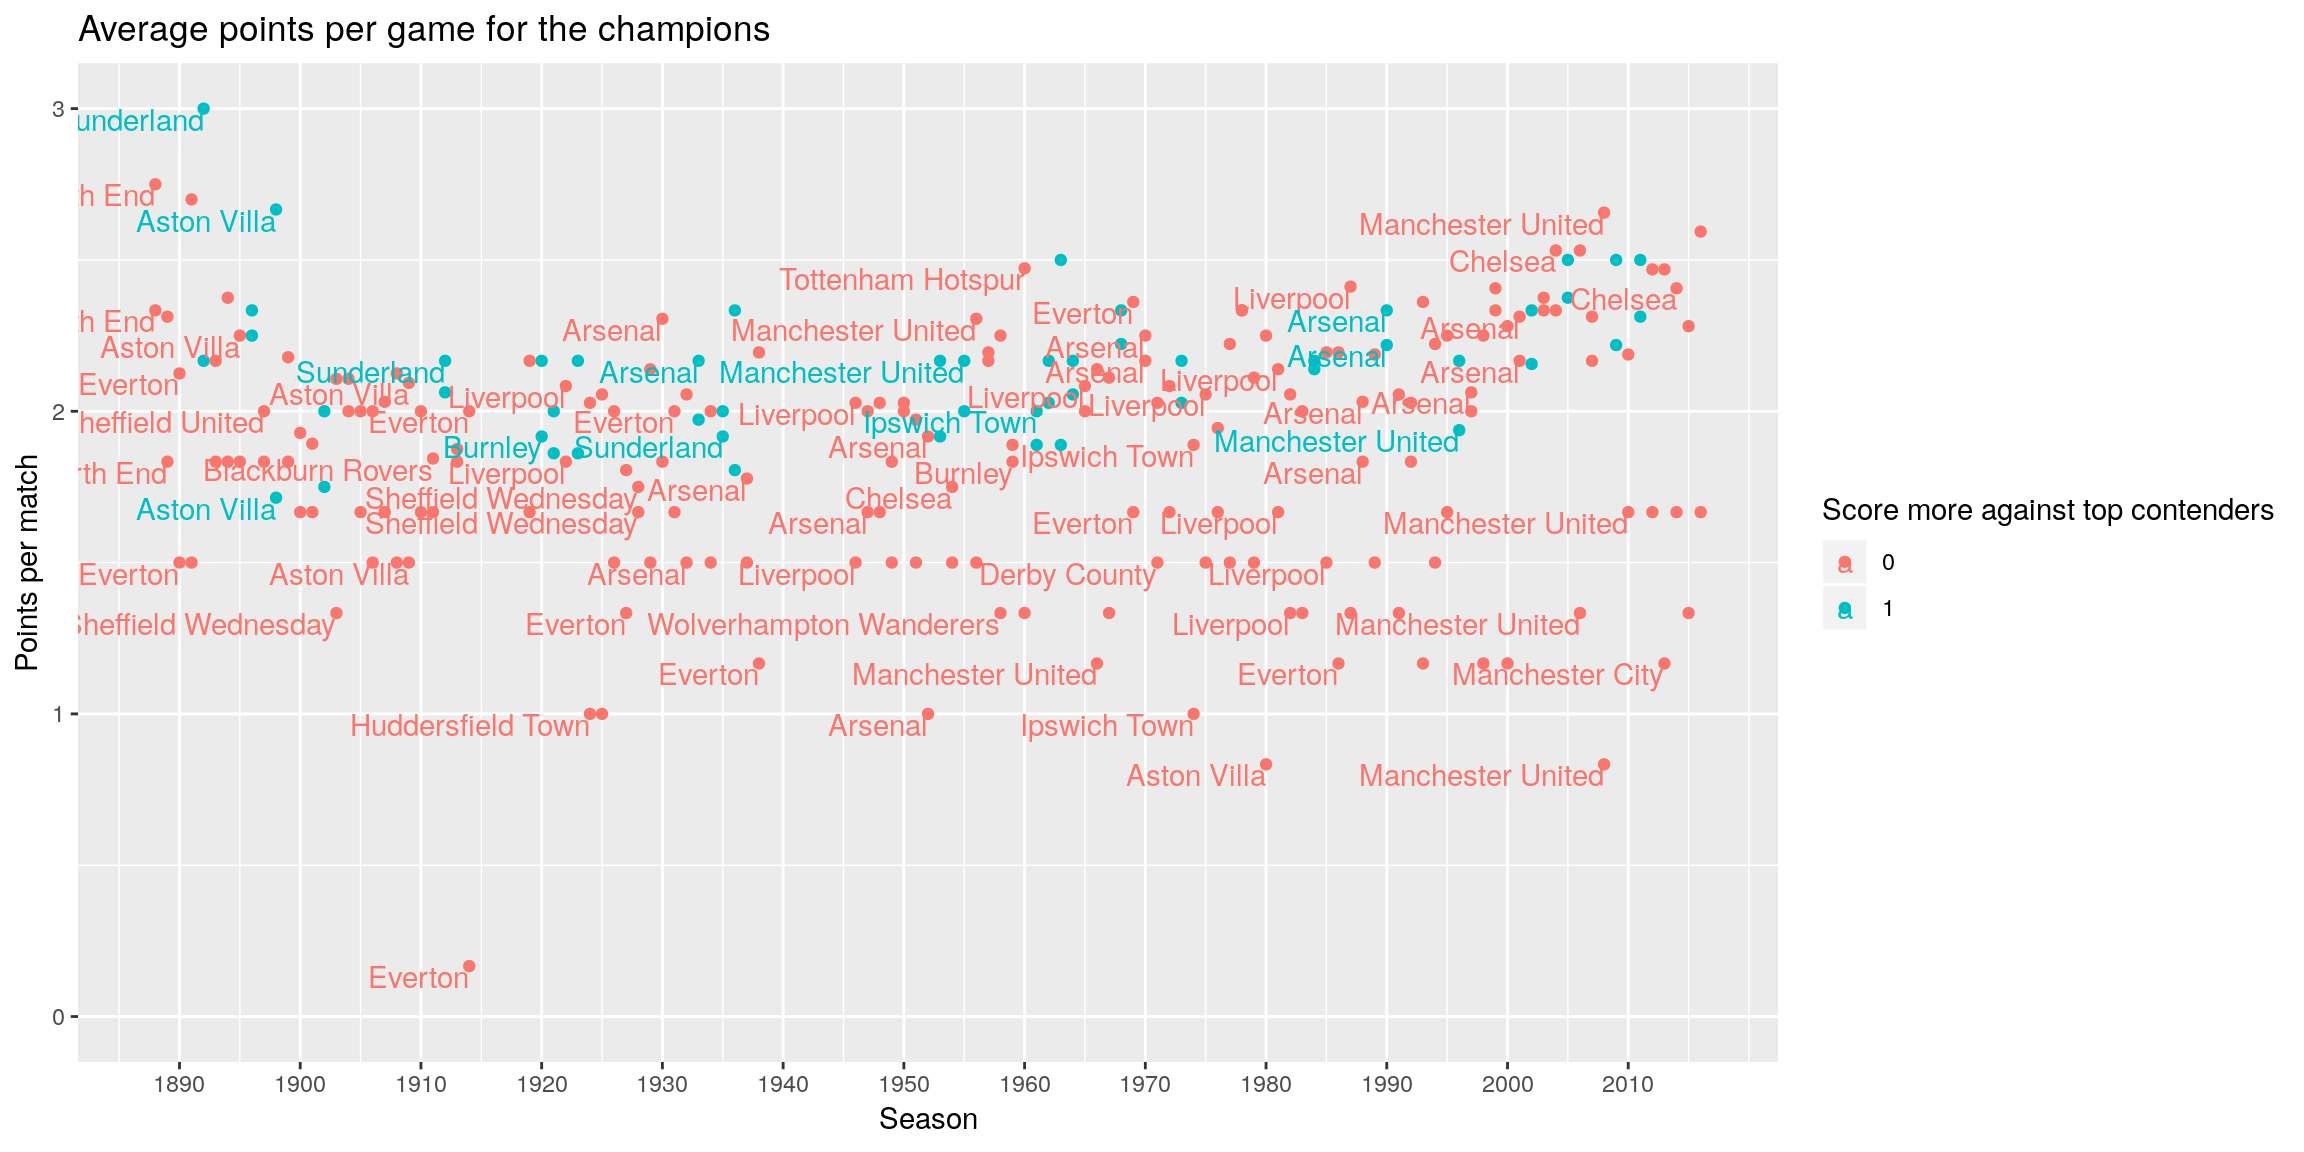
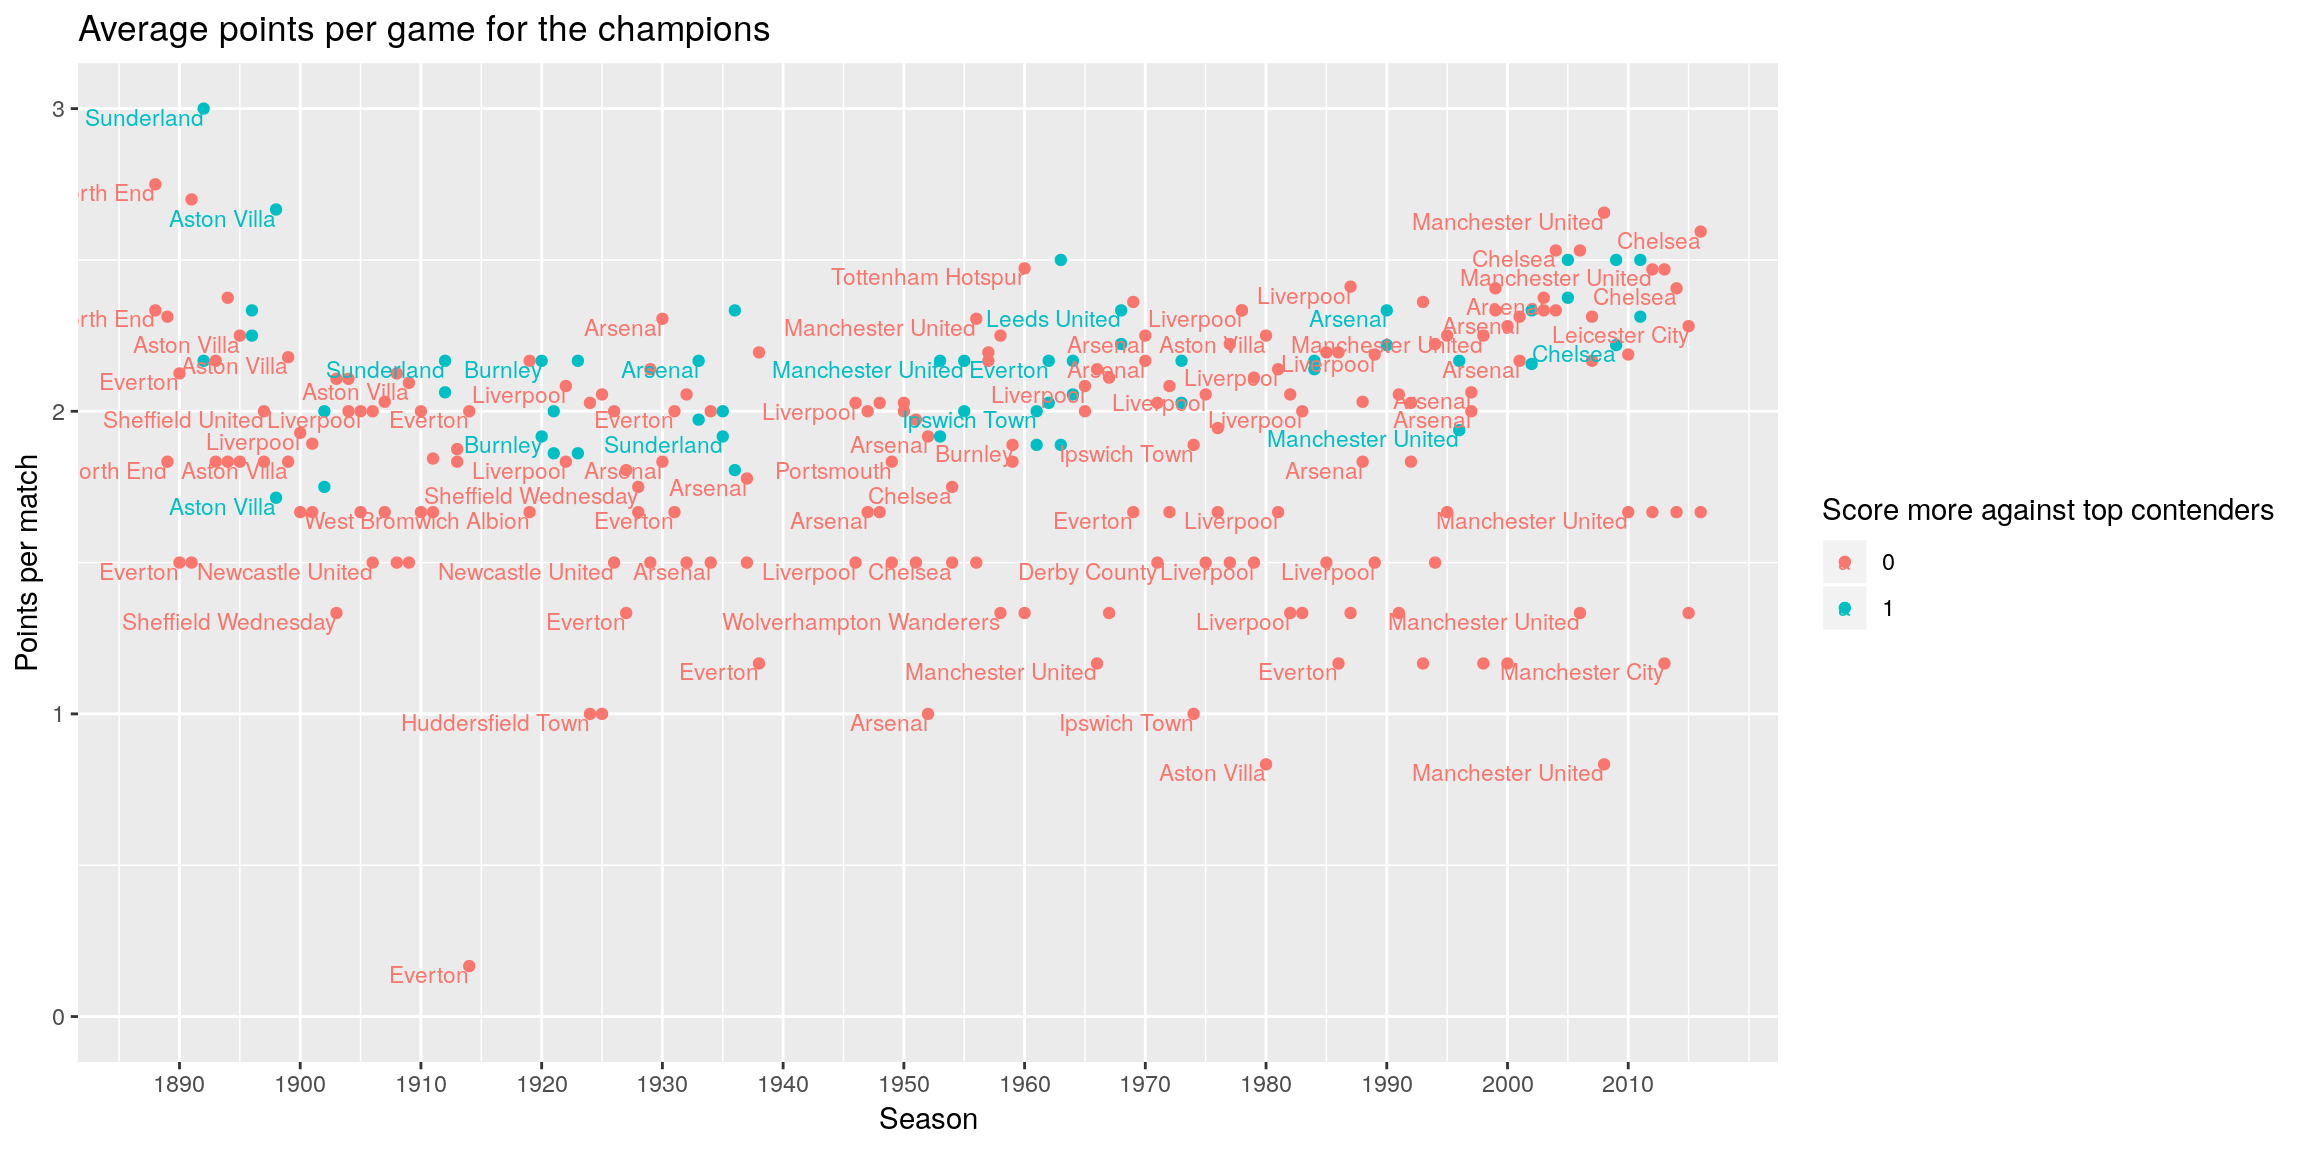
add soccer

diff --git a/content/post/2019-01-17-epl-soccer.html b/content/post/2019-01-17-epl-soccer.html
@@ -269,14 +269,13 @@ champs_points %&gt;%
   geom_point() +
   expand_limits(y=0) +
   scale_x_continuous(breaks=seq(1890,2010,10)) +
-  geom_text(aes(label = team), vjust = 1, hjust = 1, check_overlap = TRUE) +
+  geom_text(aes(label = team), vjust = 1, hjust = 1, check_overlap = TRUE, size=3) +
       labs(x = &quot;Season&quot;,
        y = &quot;Points per match&quot;,
        title = &quot;Average points per game for the champions&quot;, 
        color = &quot;Against top contenders&quot;)</code></pre>
 <pre><code>## `geom_smooth()` using method = &#39;loess&#39; and formula &#39;y ~ x&#39;</code></pre>
-<p><img src="/post/2019-01-17-epl-soccer_files/figure-html/fig1-1.png" width="1152" style="display: block; margin: auto;" /></p>
-<p>We see most cases points are higher if opponents are not top 4. But there are exceptions. Everton in 1919, Aston Villa in 1980 and Manchester United in 2008 have average points lower than 1, meaning on average they lose to the other top 3 opponents, but the winning percentage is much higher against other opponents.</p>
+<p><img src="/post/2019-01-17-epl-soccer_files/figure-html/fig1-1.png" width="1152" style="display: block; margin: auto;" /> We see most cases points are higher if opponents are not top 4. But there are exceptions. Everton in 1919, Aston Villa in 1980 and Manchester United in 2008 have average points lower than 1, meaning on average they lose to the other top 3 opponents, but the winning percentage is much higher against other opponents.</p>
 <p>Now we label those teams who have a higher winning percentage against other top 3 teams vs. lower ranked teams:</p>
 <pre class="r"><code>champs_points %&gt;%
   arrange(Season, team, oppo_top4) %&gt;%
@@ -287,11 +286,11 @@ champs_points %&gt;%
   geom_point() +
   expand_limits(y=0) +
   scale_x_continuous(breaks=seq(1890,2010,10)) +
-  geom_text(aes(label = team), vjust = 1, hjust = 1, check_overlap = TRUE) +
+  geom_text(aes(label = team), vjust = 1, hjust = 1, check_overlap = TRUE, size=3) +
     labs(x = &quot;Season&quot;,
        y = &quot;Points per match&quot;,
        title = &quot;Average points per game for the champions&quot;, 
-       color = &quot;Score more against top contenders&quot;)</code></pre>
+       color = &quot;Score more against top contenders&quot;) </code></pre>
 <p><img src="/post/2019-01-17-epl-soccer_files/figure-html/fig2-1.png" width="1152" style="display: block; margin: auto;" /></p>
 <p>There are not so many champions won more points from top contenders than other teams on average, but there are a few. Sunderland had won all games against top 4 contenders in 1892.</p>
 <p>Overall, a team wins championship by winning bother situations. When they play against top contenders, at least they have 50% chance of winning. The expected score will be 4/3 if we consider equal chance of winning, losing, or tieing. Any champion below 4/3 against top contenders is under-performing. But acationally they won championships after losing to top contenders. Such as Mancheseter City in 2008.</p>

diff --git a/public/2019/01/17/soccer-epl/index.html b/public/2019/01/17/soccer-epl/index.html
@@ -322,14 +322,13 @@ champs_points %&gt;%
   geom_point() +
   expand_limits(y=0) +
   scale_x_continuous(breaks=seq(1890,2010,10)) +
-  geom_text(aes(label = team), vjust = 1, hjust = 1, check_overlap = TRUE) +
+  geom_text(aes(label = team), vjust = 1, hjust = 1, check_overlap = TRUE, size=3) +
       labs(x = &quot;Season&quot;,
        y = &quot;Points per match&quot;,
        title = &quot;Average points per game for the champions&quot;, 
        color = &quot;Against top contenders&quot;)</code></pre>
 <pre><code>## `geom_smooth()` using method = &#39;loess&#39; and formula &#39;y ~ x&#39;</code></pre>
-<p><img src="/post/2019-01-17-epl-soccer_files/figure-html/fig1-1.png" width="1152" style="display: block; margin: auto;" /></p>
-<p>We see most cases points are higher if opponents are not top 4. But there are exceptions. Everton in 1919, Aston Villa in 1980 and Manchester United in 2008 have average points lower than 1, meaning on average they lose to the other top 3 opponents, but the winning percentage is much higher against other opponents.</p>
+<p><img src="/post/2019-01-17-epl-soccer_files/figure-html/fig1-1.png" width="1152" style="display: block; margin: auto;" /> We see most cases points are higher if opponents are not top 4. But there are exceptions. Everton in 1919, Aston Villa in 1980 and Manchester United in 2008 have average points lower than 1, meaning on average they lose to the other top 3 opponents, but the winning percentage is much higher against other opponents.</p>
 <p>Now we label those teams who have a higher winning percentage against other top 3 teams vs. lower ranked teams:</p>
 <pre class="r"><code>champs_points %&gt;%
   arrange(Season, team, oppo_top4) %&gt;%
@@ -340,11 +339,11 @@ champs_points %&gt;%
   geom_point() +
   expand_limits(y=0) +
   scale_x_continuous(breaks=seq(1890,2010,10)) +
-  geom_text(aes(label = team), vjust = 1, hjust = 1, check_overlap = TRUE) +
+  geom_text(aes(label = team), vjust = 1, hjust = 1, check_overlap = TRUE, size=3) +
     labs(x = &quot;Season&quot;,
        y = &quot;Points per match&quot;,
        title = &quot;Average points per game for the champions&quot;, 
-       color = &quot;Score more against top contenders&quot;)</code></pre>
+       color = &quot;Score more against top contenders&quot;) </code></pre>
 <p><img src="/post/2019-01-17-epl-soccer_files/figure-html/fig2-1.png" width="1152" style="display: block; margin: auto;" /></p>
 <p>There are not so many champions won more points from top contenders than other teams on average, but there are a few. Sunderland had won all games against top 4 contenders in 1892.</p>
 <p>Overall, a team wins championship by winning bother situations. When they play against top contenders, at least they have 50% chance of winning. The expected score will be 4/3 if we consider equal chance of winning, losing, or tieing. Any champion below 4/3 against top contenders is under-performing. But acationally they won championships after losing to top contenders. Such as Mancheseter City in 2008.</p>
